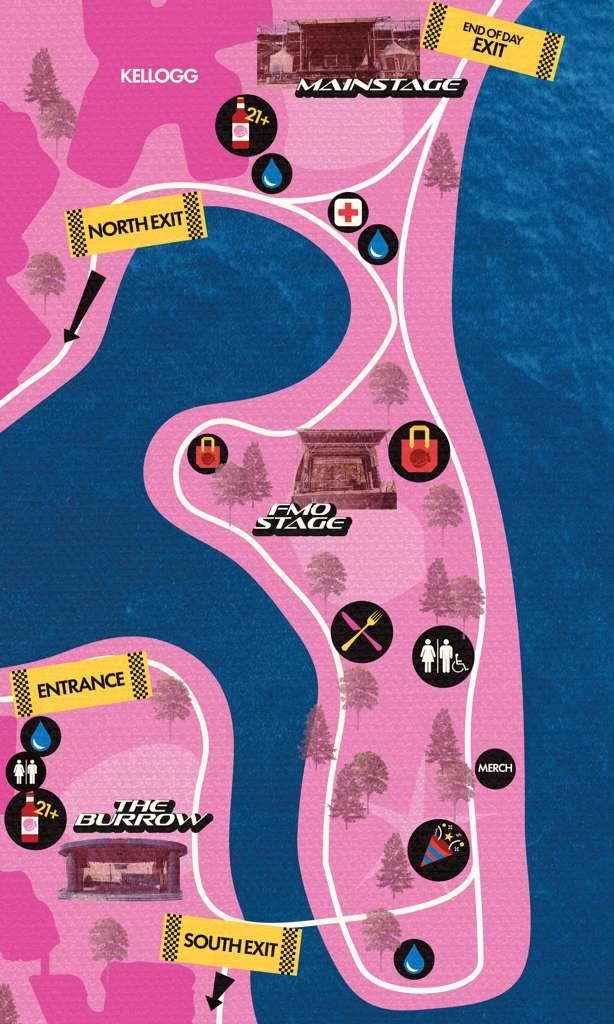
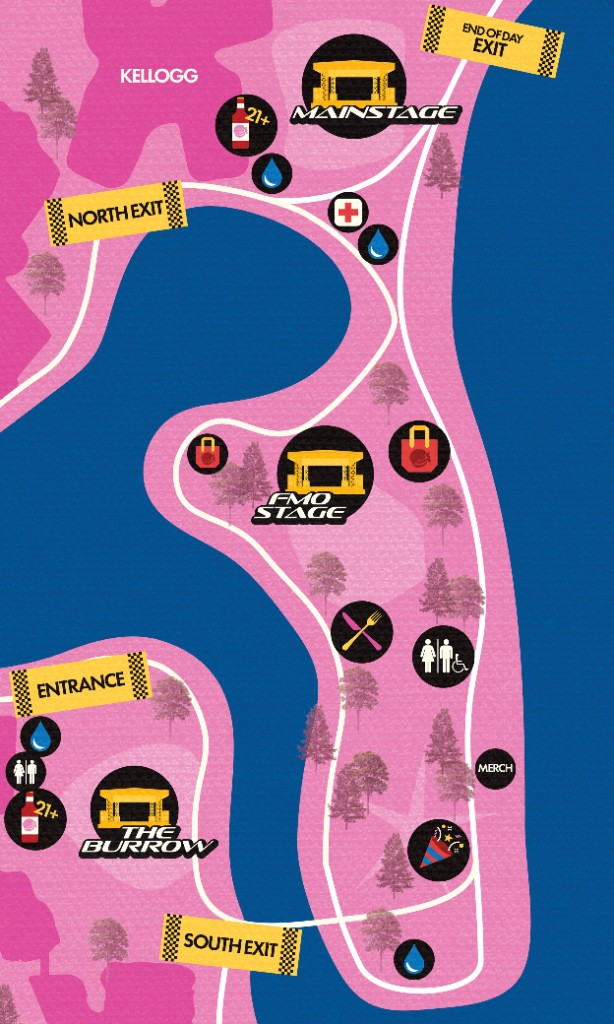
more map bug fixes fml

diff --git a/app/(tabs)/map.tsx b/app/(tabs)/map.tsx
@@ -85,6 +85,12 @@ interface MarkerData {
   coordinate: { latitude: number; longitude: number };
 }
 
+const getDrawerItemLayout = (_: unknown, index: number) => ({
+  length: SNAP_WIDTH,
+  offset: SNAP_WIDTH * index,
+  index,
+});
+
 const markers: MarkerData[] = [
   {
     id: 'a',
@@ -92,8 +98,8 @@ const markers: MarkerData[] = [
     icon: 'door-open',
     label: 'Entrance',
     coordinate: {
-      latitude: 42.053889,
-      longitude: -87.672583,
+      latitude: 42.053833,
+      longitude: -87.67275,
     },
   },
   {
@@ -150,7 +156,7 @@ const markers: MarkerData[] = [
     type: 'medical',
     icon: 'briefcase-medical',
     label: 'Medical Tent',
-    coordinate: { latitude: 42.056484, longitude: -87.670533 },
+    coordinate: { latitude: 42.056806, longitude: -87.6705 },
   },
   {
     id: 'h',
@@ -164,7 +170,7 @@ const markers: MarkerData[] = [
     type: 'water',
     icon: 'water',
     label: 'Water Station',
-    coordinate: { latitude: 42.056528, longitude: -87.670528 },
+    coordinate: { latitude: 42.056306, longitude: -87.670444 },
   },
   {
     id: 'w',
@@ -263,12 +269,18 @@ export default function MapScreen() {
   );
 
   useEffect(() => {
-    if (activeTab === 'interactive') {
-      drawerRef.current?.scrollToOffset({
-        offset: activeIndex * SNAP_WIDTH,
-        animated: true, // ← animate instead of jumping
+    if (activeTab !== 'interactive') return;
+    // Use scrollToIndex + getItemLayout so the visible drawer card matches
+    // activeIndex. scrollToOffset(activeIndex * SNAP_WIDTH) does not stay in
+    // sync with padding + centered snap and can show the wrong location.
+    const frame = requestAnimationFrame(() => {
+      drawerRef.current?.scrollToIndex({
+        index: activeIndex,
+        animated: true,
+        viewPosition: 0.5,
       });
-    }
+    });
+    return () => cancelAnimationFrame(frame);
   }, [activeTab, activeIndex]);
 
   useEffect(() => {
@@ -383,6 +395,16 @@ export default function MapScreen() {
           snapToInterval={SNAP_WIDTH}
           snapToAlignment='center'
           showsHorizontalScrollIndicator={false}
+          getItemLayout={getDrawerItemLayout}
+          onScrollToIndexFailed={({ index }) => {
+            requestAnimationFrame(() => {
+              drawerRef.current?.scrollToIndex({
+                index,
+                animated: false,
+                viewPosition: 0.5,
+              });
+            });
+          }}
           contentContainerStyle={{
             paddingHorizontal: (screen.width - ITEM_WIDTH) / 2,
           }}
